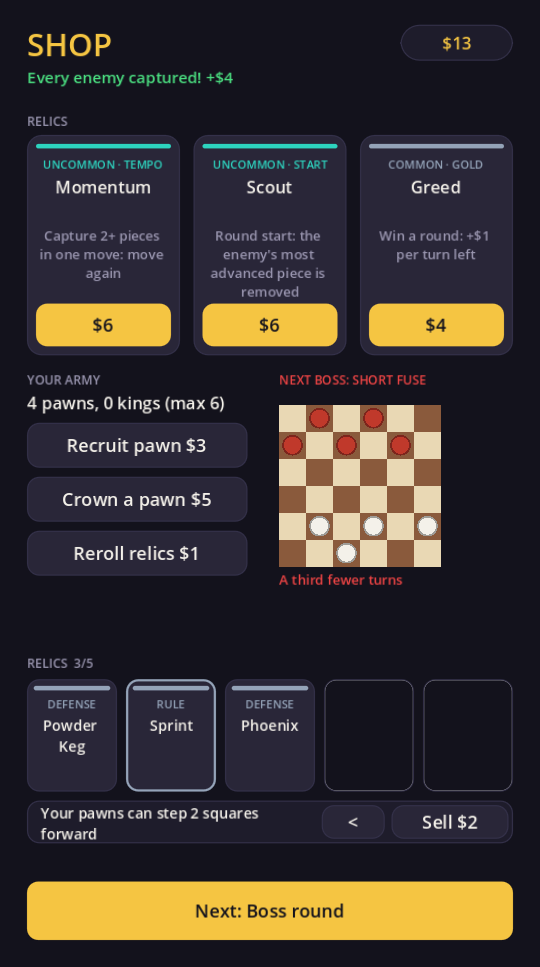
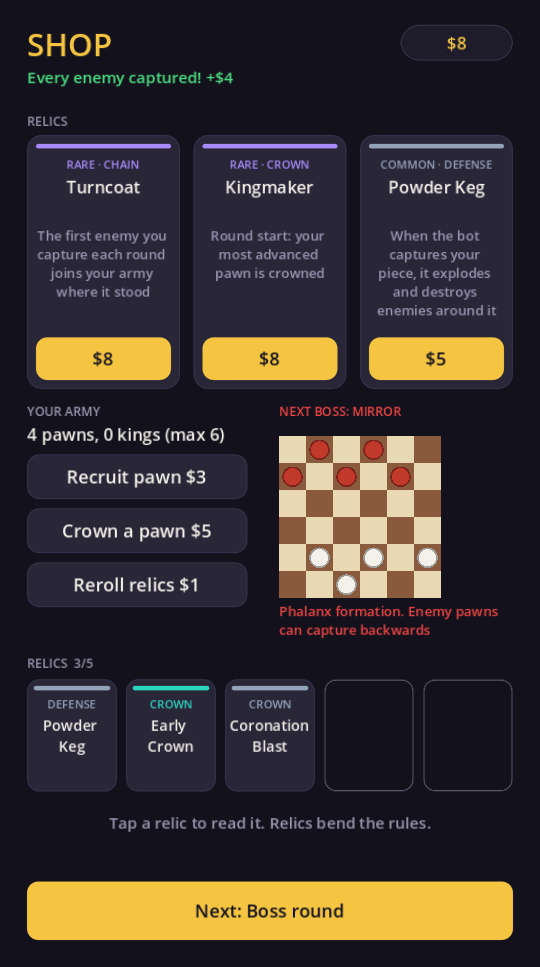
Relic power pass: 26 relics, stronger effects
Adds Leapfrog, Hourglass, Heir, Kingmaker, Turncoat and Quake, and buffs
Early Crown, Blast, Powder Keg, Phoenix, Chain Lightning, Executioner,
Scout, Fortress, Hunter and Piggy Bank.

Claude-Session: https://claude.ai/code/session_01UHNVcGe24YcN6TQ3kEM1Jy

diff --git a/README.md b/README.md
@@ -16,7 +16,7 @@ Tap a white piece, then tap a green dot to move. Captures are mandatory for both
 
 **Lives:** 3. Losing a round (out of turns, or no legal moves) costs a life and you retry the same round. Losing your whole army ends the run.
 
-**Relics (passive, 5 slots):** 20 relics that change the rules (Backstab, Sprint, Flying Kings, Iron Kings, Fortress), add triggers (Powder Keg, Coronation Blast, Chain Lightning, Momentum) or make money (Bounty, Greed, Piggy Bank). Order matters only for the Silence boss.
+**Relics (passive, 5 slots):** 26 relics in families that stack: RULE (Backstab, Sprint, Leapfrog, Flying Kings), CROWN (Early Crown 2 rows early, Coronation Blast, Heir, Kingmaker), CHAIN (Chain Lightning, Executioner, Turncoat), TEMPO (Momentum, Coronation Rush, Hourglass), DEFENSE (Phoenix, Powder Keg, Iron Kings, Fortress, Undertow), START (Scout, Quake) and GOLD. Order matters only for the Silence boss.
 
 **No score.** Score was cut in v2: winning the checkers game is the goal, so every capture and every lost piece matters directly.
 
